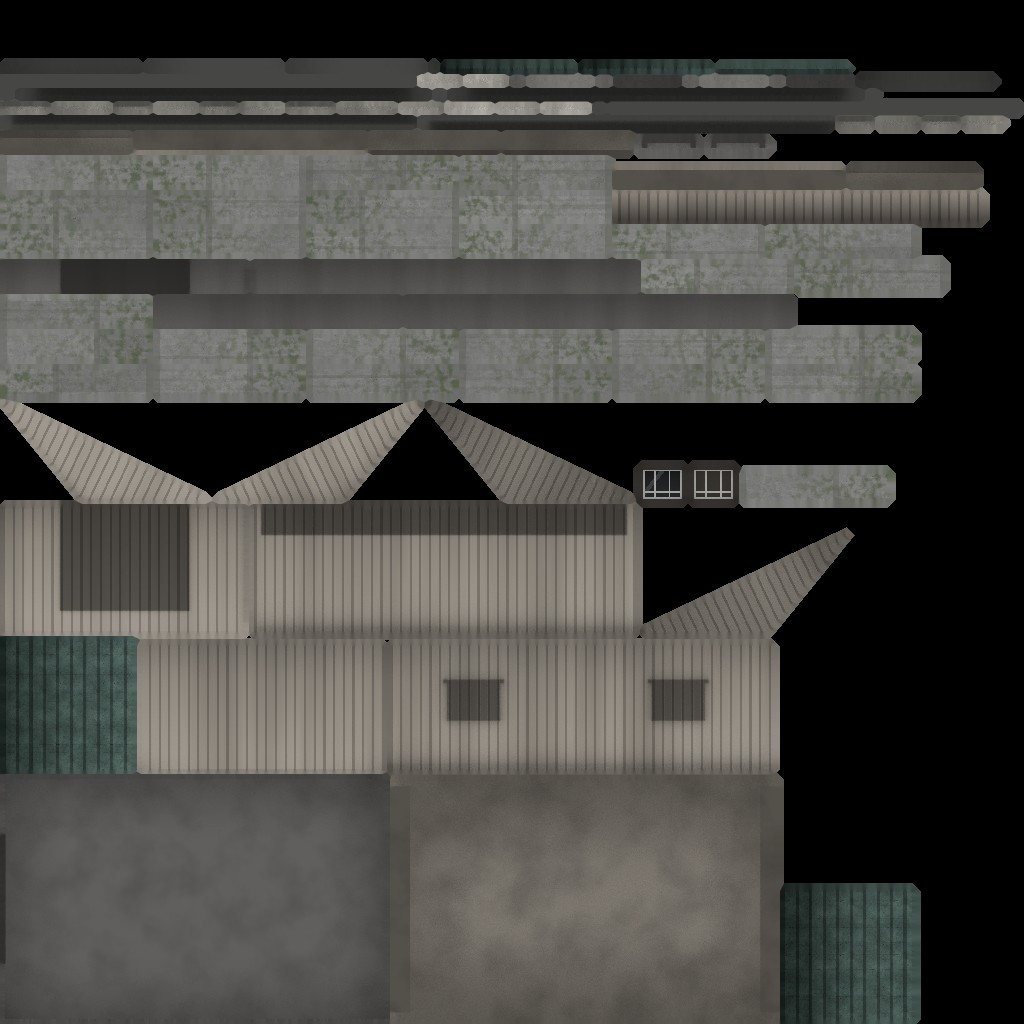
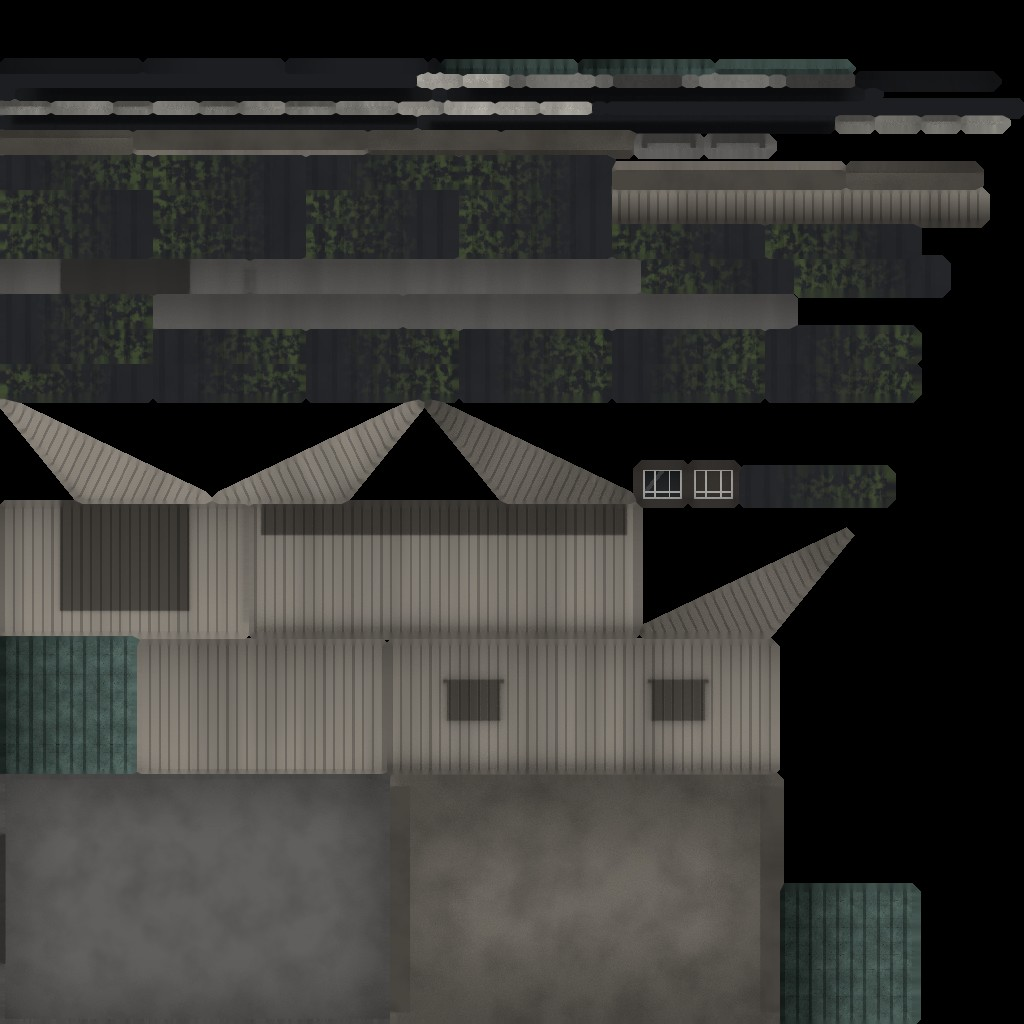
fix(battle): непрозорий паркан малюється раніше за дим, повітка темніша за стіни
Лист-паркан (непрозорий прохід) мав пріоритет 0 і малювався після диму, тож різав низ стовпа; тепер −1, як рабиця.
Ціла повітка f8_shed: темний сланцевий дах і сірі темні дошки, як у руїни.

Changed region(s): [[0.0, 0.0312, 1.0, 0.4062], [0.7188, 0.4375, 0.875, 0.5]]

diff --git a/tools/blender/buildings/build_ruins.py b/tools/blender/buildings/build_ruins.py
@@ -417,18 +417,17 @@ def house2(ruined, variant=0):
 def shed(ruined, variant=0):
     """Господарський сарай 6.8 x 4.2 м. Напівзруйнований: фронтальна (на камеру) стіна впала, дах з цього боку провис уздовж того самого коника."""
     lib.reset()
-    # Дах руїни повітки темний (сланець, коричневий руберойд, вишня): variant 0, 1, 2 різняться кольором; дах темніший за дошки.
+    # Дах повітки (і цілої, і руїни) темний (сланець, коричневий руберойд, вишня): variant 0, 1, 2 різняться кольором; дах темніший за дошки.
     lib.ROOFS["ruin_roof"] = ("tile", ((0.15, 0.155, 0.17), (0.19, 0.135, 0.105), (0.2, 0.075, 0.08))[variant])
-    lib.palette(roof="ruin_roof" if ruined else "asb_old", eave=2.8)
+    lib.palette(roof="ruin_roof", eave=2.8)
     DM[0] = "boards_soft_vc"
-    if ruined:
-        # дошки сірі й темні (на чверть темніші за бежеві): світле дерево заборонене, а дах мусить лишатись темнішим за стіну
-        mt = lib.mats()
-        mt["boards_soft"] = lib.make_material("boards_soft", flat=(0.27, 0.245, 0.21), seams=[("h", 0.18, 0.02, 0.4)], streak=0.5, base_dirt=0.4,
-                                              seam_bump=0.8, undul=(1.2, 0.01), rough=0.9)
-        mt["boards_soft_vc"] = lib.make_material("boards_soft_vc", flat=(0.27, 0.245, 0.21), seams=[("h", 0.18, 0.02, 0.4)], streak=0.5, base_dirt=0.4,
-                                                 vmul=True, seam_bump=0.8, undul=(1.2, 0.01), rough=0.9)
-        lib._dm("boards_soft")
+    # дошки сірі й темні (на чверть темніші за бежеві): світле дерево заборонене, а дах мусить лишатись темнішим за стіну; цілий сарай — так само
+    mt = lib.mats()
+    mt["boards_soft"] = lib.make_material("boards_soft", flat=(0.27, 0.245, 0.21), seams=[("h", 0.18, 0.02, 0.4)], streak=0.5, base_dirt=0.4,
+                                          seam_bump=0.8, undul=(1.2, 0.01), rough=0.9)
+    mt["boards_soft_vc"] = lib.make_material("boards_soft_vc", flat=(0.27, 0.245, 0.21), seams=[("h", 0.18, 0.02, 0.4)], streak=0.5, base_dirt=0.4,
+                                             vmul=True, seam_bump=0.8, undul=(1.2, 0.01), rough=0.9)
+    lib._dm("boards_soft")
     b = Builder()
     rnd = random.Random(57 + 19 * variant)
     hx, hy = 3.4, 2.1
